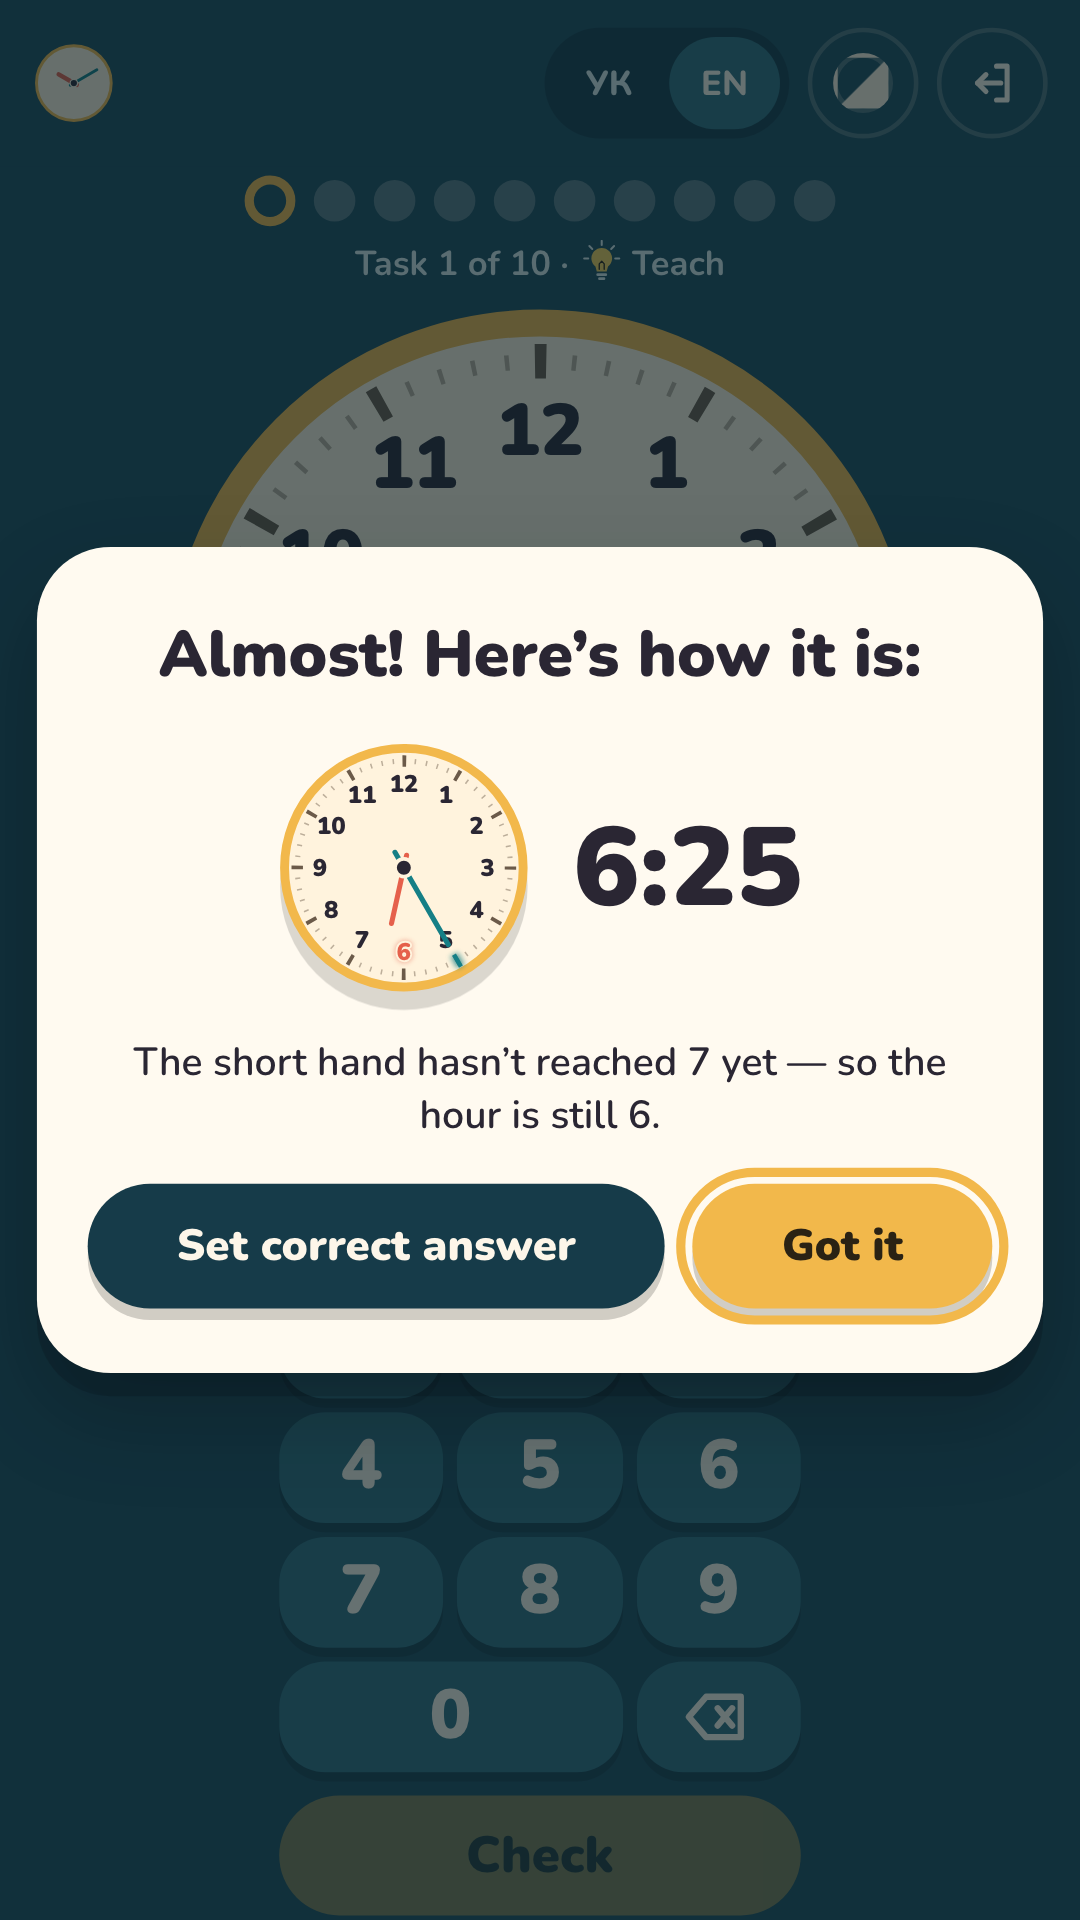
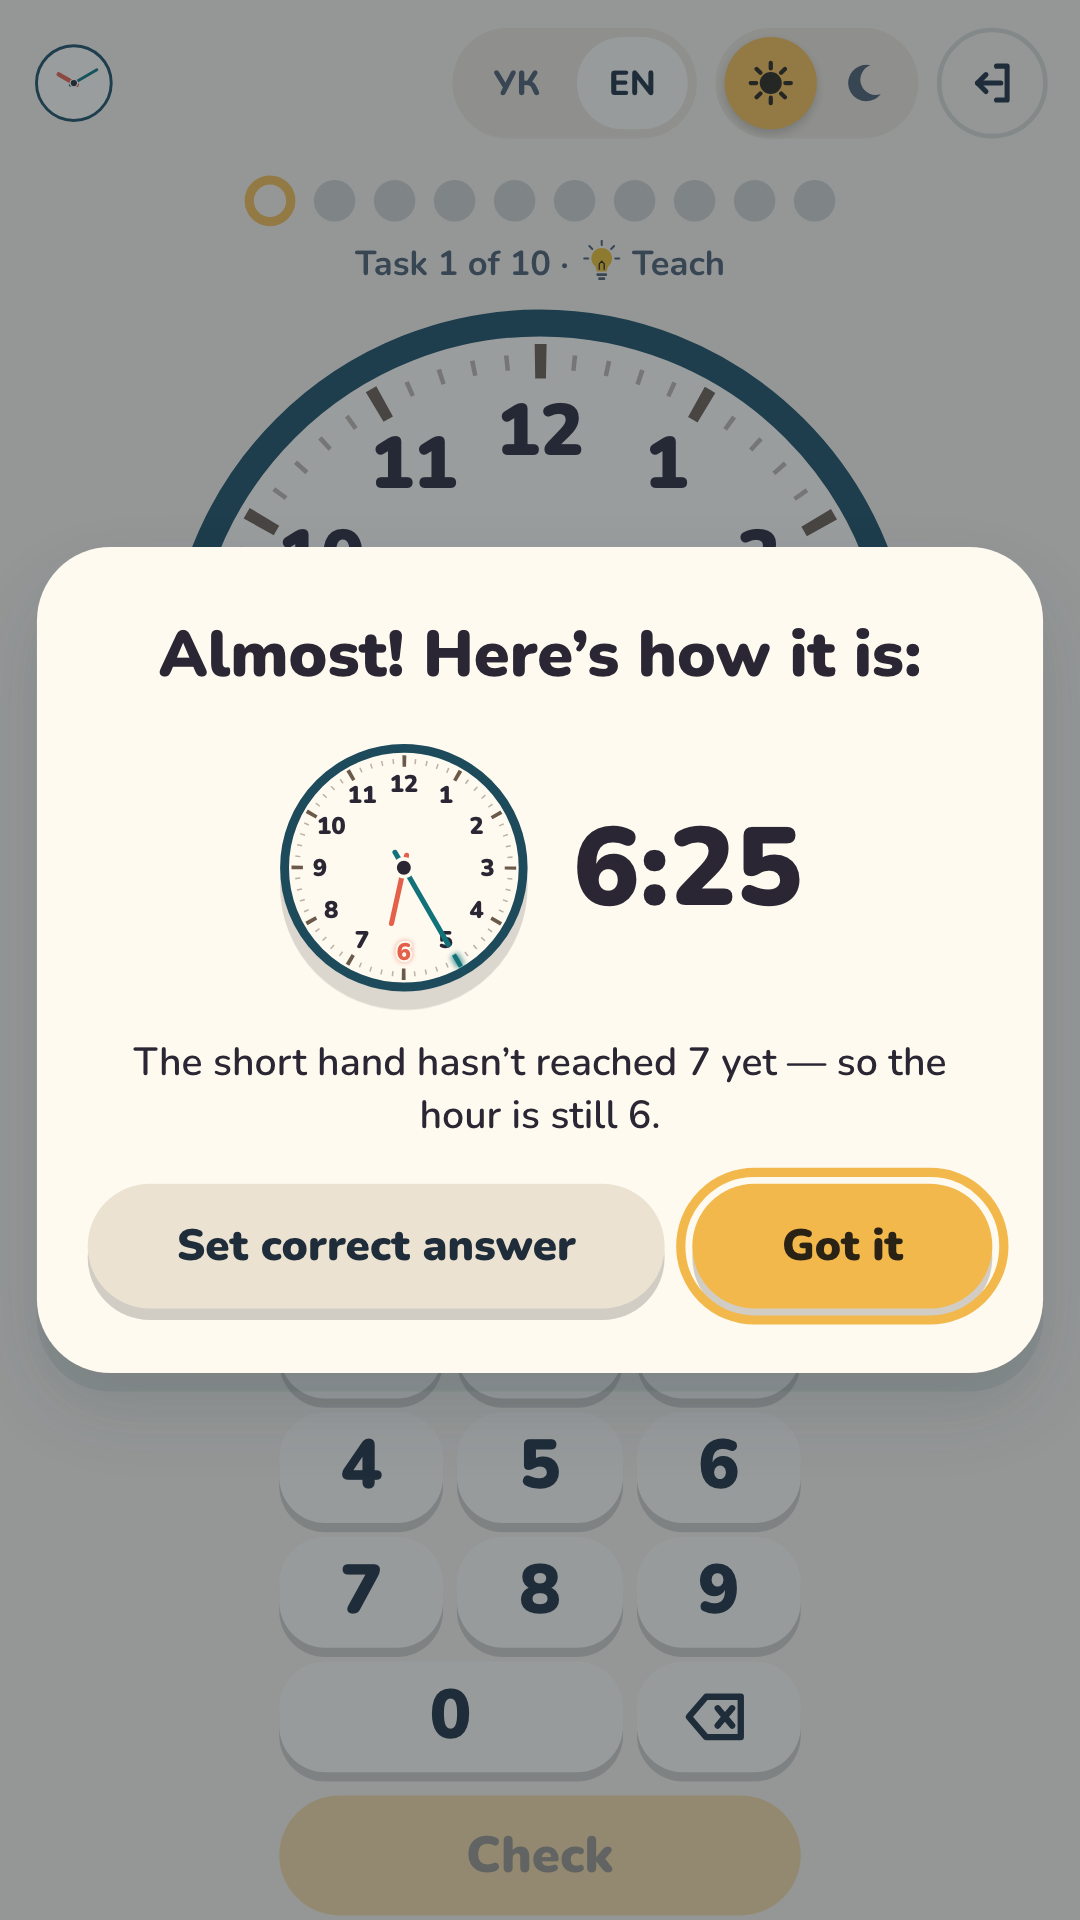
11: Rerun store shots in the light theme with the sun/moon toggle

diff --git a/.scratch/11-theme-switch/issues/02-update-design.md b/.scratch/11-theme-switch/issues/02-update-design.md
@@ -12,7 +12,7 @@
 - [x] Boards drawn in the middle theme move to light (or dark where a dark board is missing); every header shows the sun/moon toggle (`images/01-sun-moon-toggle.png`, row 2) instead of the swatches or the cycle button.
 - [x] `Main.dc.html` shows the two themes; `gallery.html` and `canvas.json` follow; the "Темна і світла теми" row is no longer separate.
 - [x] Docs: `docs/product-brief.md` (two themes, device default, the toggle; the look section no longer calls teal the default), `GLOSSARY.md` (Preferences: light or dark), CLAUDE.md status line.
-- [ ] Rerun `npm run store-shots` so `docs/store/` shows the new look.
+- [x] Rerun `npm run store-shots` so `docs/store/` shows the new look.
 - [ ] `.scratch/README.md`: the batch row and its PR.
 
 **Out of scope:** the teal brand colour in the icon, splash and store art.
